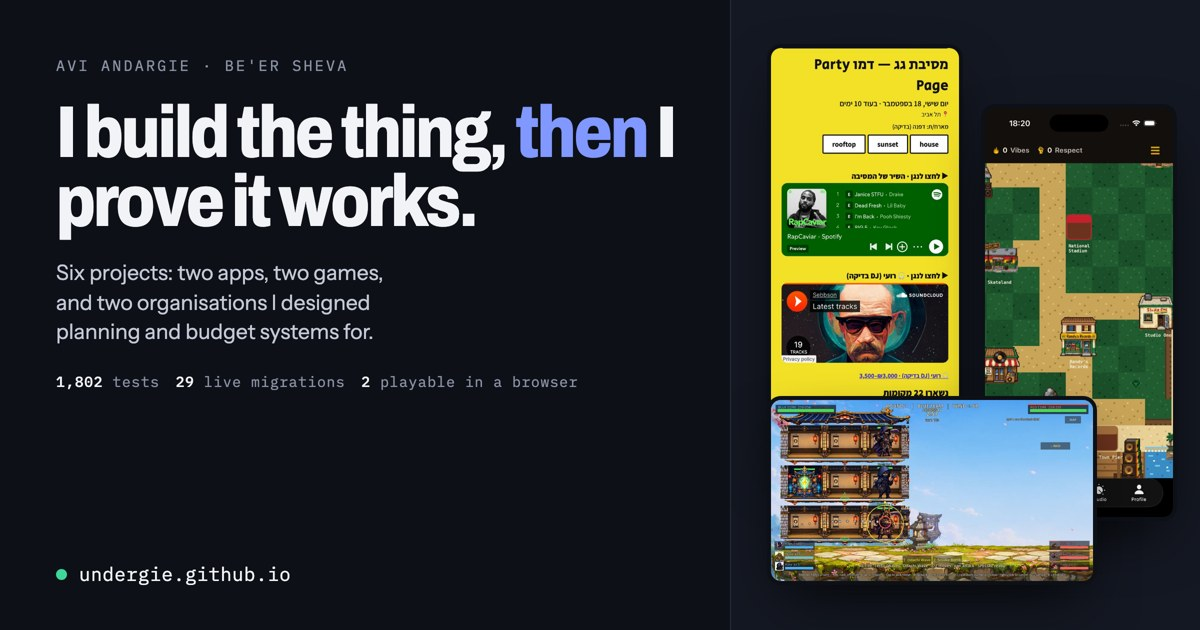
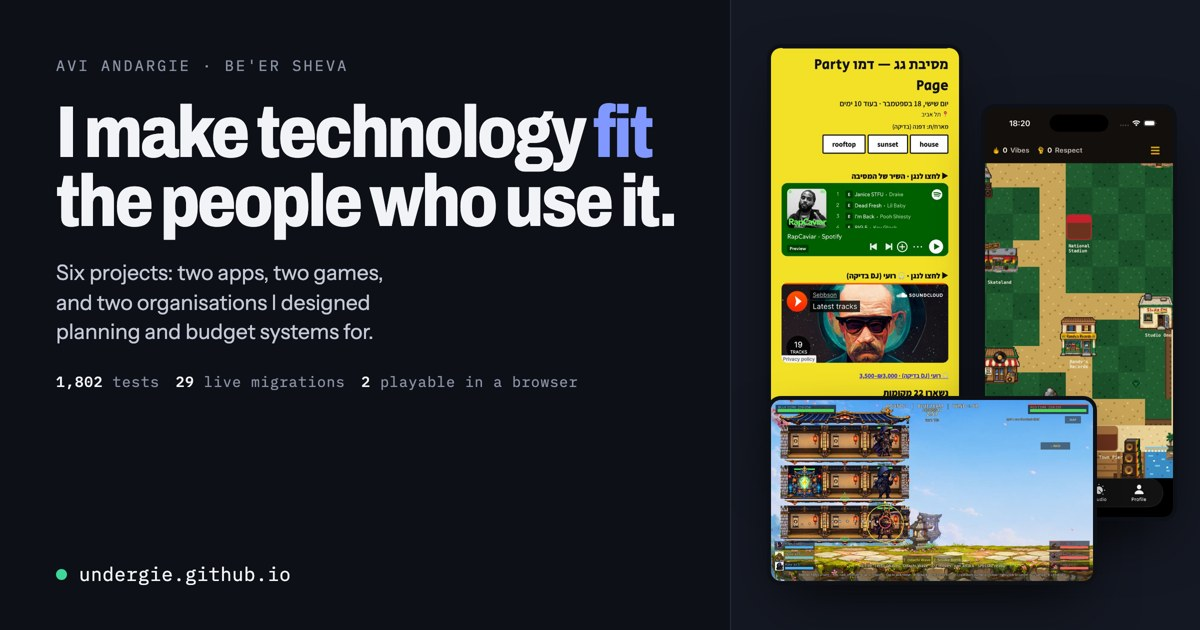
Replace the hero headline and the footer line
The old headline said "the thing", which names nothing, and claimed
working software as an achievement rather than a baseline. The new one
states what the work is for. The verification claim stays where it
belongs, in the paragraph under it.

The footer motto existed to explain a photo that is no longer on the
page, and "light about everything else" reads as the opposite of what
it meant. A statement of method replaces it.

Changed region(s): [[0.0308, 0.1508, 0.5858, 0.3921]]

diff --git a/index.html b/index.html
@@ -6,7 +6,7 @@
 <link rel="canonical" href="https://undergie.github.io/">
 <meta property="og:type" content="website">
 <meta property="og:site_name" content="Avi Andargie">
-<meta property="og:title" content="Avi Andargie — I build the thing, then I prove it works">
+<meta property="og:title" content="Avi Andargie — I make technology fit the people who use it">
 <meta property="og:description" content="Six things I built: an event marketplace, a castle-siege game, a reggae game, a guitar teacher that listens, a farm's work plan, and a national programme's budget system.">
 <meta property="og:url" content="https://undergie.github.io/">
 <meta property="og:image" content="https://undergie.github.io/img/og.jpg">
@@ -14,7 +14,7 @@
 <meta property="og:image:height" content="630">
 <meta property="og:image:alt" content="Avi Andargie's portfolio: the headline beside screenshots of a party page, a pixel-art map and a castle-siege game">
 <meta name="twitter:card" content="summary_large_image">
-<meta name="twitter:title" content="Avi Andargie — I build the thing, then I prove it works">
+<meta name="twitter:title" content="Avi Andargie — I make technology fit the people who use it">
 <meta name="twitter:description" content="Six things I built: an event marketplace, a castle-siege game, a reggae game, a guitar teacher that listens, a farm's work plan, and a national programme's budget system.">
 <meta name="twitter:image" content="https://undergie.github.io/img/og.jpg">
 <title>Avi Andargie</title>
@@ -232,7 +232,7 @@ p{margin:0}
 
 <header class="hero" id="top"><div class="wrap">
   <p class="eyebrow up">Avi Andargie · Industrial Engineering &amp; Management, Ben-Gurion University · Be'er Sheva</p>
-  <h1 class="up d1" style="margin-top:18px">I build the thing, <em>then</em> I prove it works.</h1>
+  <h1 class="up d1" style="margin-top:18px">I make technology <em>fit</em> the people who use it.</h1>
   <div class="herorow">
     <p class="lede up d2">Six projects from the past year: two apps, two games, and two organisations I designed new planning and budget systems for. I write the specification and the rules, direct an AI-assisted implementation, then review, debug and verify every line that ships. <b>Every screenshot below is a running build, not a mockup.</b></p>
     <div class="cta up d3">
@@ -471,7 +471,7 @@ p{margin:0}
 
 <footer class="foot" id="contact"><div class="wrap">
   <p class="eyebrow" style="color:inherit;opacity:.55">Contact</p>
-  <h2 style="margin-top:12px">Serious about the work.<br><em>Light about everything else.</em></h2>
+  <h2 style="margin-top:12px">Start with the problem.<br><em>Not the tool.</em></h2>
   <p class="sub">Yes, I am serious and I came to work. In good spirits, though. I come to listen first: what is actually needed here, and what it will really take once you count the budget, the calendar, and the skill of the people who have to use the thing on an ordinary Tuesday. Then we shape it around them. Tailor-made for whoever is going to use it, not lifted off a shelf. That part I am good at.</p>
   <p class="sub">I love art, and I try to bring creativity into every field I touch, next to the analytical and academic side I picked up in the degree and in the work I have done. The two are not in tension. The systems people keep using are the ones somebody cared about.</p>
   <p class="sub">If something here is close to a problem you have, write to me. I would rather be shown a real problem than a job description.</p>
@@ -480,7 +480,7 @@ p{margin:0}
     <a class="btn" href="https://www.linkedin.com/in/avi-andargie-70417a3a0/" target="_blank" rel="noopener">LinkedIn</a>
     <a class="btn" href="https://github.com/underGIE" target="_blank" rel="noopener">GitHub</a>
   </div>
-  <div class="sig"><span>Peace and love for all. Now let's ship something.</span><span>Avi Andargie · Be'er Sheva</span></div>
+  <div class="sig"><span>undergie.github.io</span><span>Avi Andargie · Be'er Sheva</span></div>
 </div></footer>
 
 <script>
